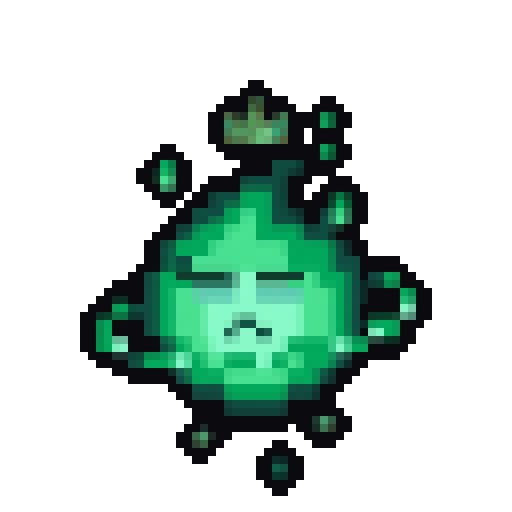
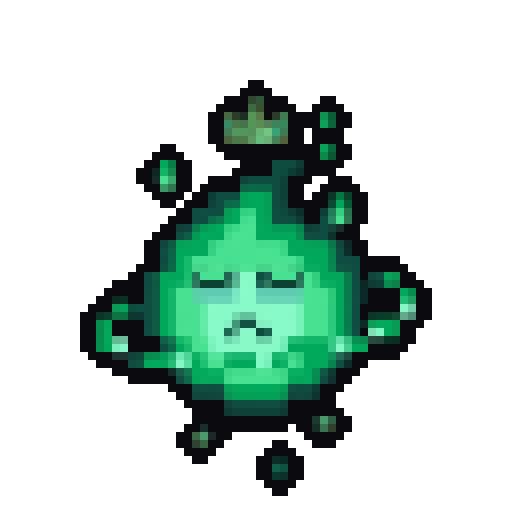
fix(cuprum): eliminate sprite swap black flash and fix eye blink alignment

Changed region(s): [[0.5, 0.5, 0.5938, 0.5625], [0.3438, 0.5, 0.4375, 0.5625]]

diff --git a/frontend/src/components/CuprumCompanionPanel.tsx b/frontend/src/components/CuprumCompanionPanel.tsx
@@ -127,19 +127,24 @@ export function CuprumCompanionPanel({
     setInteractionEpoch((value) => value + 1);
   }, []);
 
-  // Preload talk and action sprites so rapid swaps never flash or delay.
+  const preloadedRef = useRef<HTMLImageElement[]>([]);
+
+  // Preload and pre-decode all sprite frames so swaps never drop frames, flash, or delay.
   useEffect(() => {
     if (typeof window === 'undefined') return;
-    const preloadList = [
-      `/assets/cuprum/${moodMeta.prefix}-talk.webp?v=retro-talk-v5`,
-      `/assets/cuprum/${moodMeta.prefix}-talk.png?v=retro-talk-v5`,
-      `/assets/cuprum/${moodMeta.prefix}-idle-1.webp?v=retro-talk-v5`,
-      `/assets/cuprum/${moodMeta.prefix}-idle-2.webp?v=retro-talk-v5`,
-    ];
-    preloadList.forEach((src) => {
+    const frames = ['idle-1', 'idle-2', 'blink', 'alert', 'talk'];
+    const images: HTMLImageElement[] = [];
+
+    frames.forEach((frameName) => {
       const img = new Image();
-      img.src = src;
+      img.src = `/assets/cuprum/${moodMeta.prefix}-${frameName}.webp?v=retro-v6`;
+      if (typeof img.decode === 'function') {
+        img.decode().catch(() => {});
+      }
+      images.push(img);
     });
+
+    preloadedRef.current = images;
   }, [moodMeta.prefix]);
 
   // Retro pixel sprite machine: clean up-down bob + transient expressions.
@@ -376,8 +381,8 @@ export function CuprumCompanionPanel({
   }, [isTyping]);
 
   const currentFrame: CuprumSpriteFrame | 'talk' = isTyping && talkFlap ? 'talk' : frame;
-  const currentWebp = `/assets/cuprum/${moodMeta.prefix}-${currentFrame}.webp?v=retro-talk-v5`;
-  const currentPng = `/assets/cuprum/${moodMeta.prefix}-${currentFrame}.png?v=retro-talk-v5`;
+  const currentWebp = `/assets/cuprum/${moodMeta.prefix}-${currentFrame}.webp?v=retro-v6`;
+  const currentPng = `/assets/cuprum/${moodMeta.prefix}-${currentFrame}.png?v=retro-v6`;
 
   return (
     <div
@@ -439,21 +444,31 @@ export function CuprumCompanionPanel({
               />
             </svg>
 
-            <div className="relative flex items-center justify-center" style={{ width: 140, height: 140 }}>
-              <picture>
-                <source key={currentWebp} srcSet={currentWebp} type="image/webp" />
-                <img
-                  src={currentPng}
-                  alt={`Cuprum — ${moodMeta.title}`}
-                  className="h-full w-full select-none"
-                  style={{
-                    imageRendering: 'pixelated',
-                    objectFit: 'contain',
-                    filter: `drop-shadow(0 0 16px ${moodMeta.ringColor}55)`,
-                  }}
-                  decoding="async"
-                />
-              </picture>
+            <div
+              className="relative flex items-center justify-center"
+              style={{
+                width: 140,
+                height: 140,
+                filter: `drop-shadow(0 0 16px ${moodMeta.ringColor}55)`,
+                willChange: 'filter',
+                transform: 'translateZ(0)',
+              }}
+            >
+              <img
+                src={currentWebp}
+                alt={`Cuprum — ${moodMeta.title}`}
+                className="h-full w-full select-none"
+                style={{
+                  imageRendering: 'pixelated',
+                  objectFit: 'contain',
+                }}
+                decoding="sync"
+                onError={(e) => {
+                  if (!e.currentTarget.src.endsWith('.png')) {
+                    e.currentTarget.src = currentPng;
+                  }
+                }}
+              />
             </div>
 
             <span className="cm-cuprum-talk mt-1 inline-flex items-center gap-1.5 rounded-full bg-white/5 px-2.5 py-1 text-[11px] text-slate-300">
